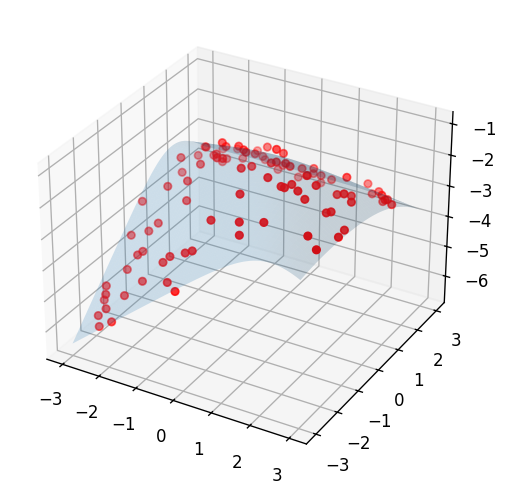
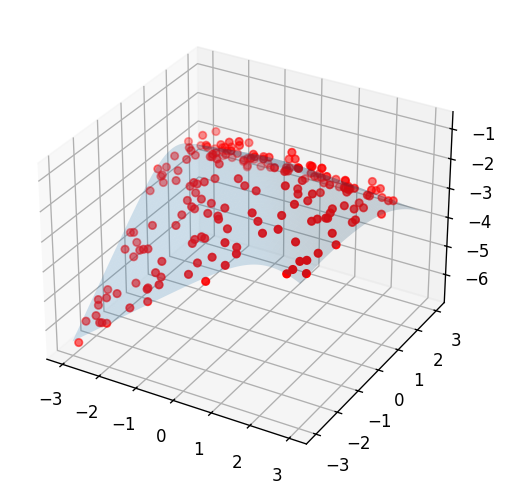
Fixes and adaptations

diff --git a/_posts/2025-12-16-Spectrum.md b/_posts/2025-12-16-Spectrum.md
@@ -7,15 +7,23 @@ comments: true
 image: assets/pow_spec_bi_9.png
 ---
 
+# TODO
+
+- Try interpolating
+- Clarify the contrast between interpolation and universality
+- Update experiments
+
 # Intro
 
 When trying to model a complicated relationship between features, our go-to architectures are typically either neural networks or decision trees. They are well-established, well-studied, and have an abundance of software for training them. So why not?
 
 But sometimes we have some additional requirements. Maybe we want our model to be an increasing / decreasing / convex / concave function of one or more feature. Perhaps we want to measure diminishing returns, and we want it to be both increasing and concave. Or maybe we care about the sensitivity of our model to noise, and want to certify its Lipschitz constant: what happens to the prediction if we slightly change the input?
 
-In the recent [interview](https://www.youtube.com/watch?v=aR20FWCCjAs) with Ilya Sutskever there was one interesting insight - perhaps we need neurons to do more compute than they do now. And it immediately rang a bell, and returned me to my Ph.D days - what would be this "more compute" that is useful? Well, maybe a neuron can solve a small optimization problem! 
+In the recent [interview](https://www.youtube.com/watch?v=aR20FWCCjAs) with Ilya Sutskever there was one interesting insight - perhaps we need neurons to do more compute than they do now. And it immediately rang a bell, and returned me to my Ph.D days - what would be this "more compute" that is useful? Well, maybe a neuron can solve a small optimization problem!   So in this post we shall explore an idea that most optimization researchers are familiar with - the eigenvalues of a matrix are solutions to optimization problems. So what can one such neuron do? Turns out quite a lot! This is exactly what we shall explore in this post.  
 
-So in this post we shall explore an idea that most optimization researchers are familiar with - the eigenvalues of a matrix are solutions to optimization problems that, on the one hand, can model extremely complicated functions, but on the other hand, we have a lot of machinery to reason about them and understand their properties. So what can one such neuron do? Turns out quite a lot! This is exactly what we shall explore in this post. The notebook for reproducing all the results is [here](https://github.com/alexshtf/alexshtf.github.io/blob/master/assets/specrum_power_intro.ipynb). Feel free to deploy it to Colab and play ith it.
+Why eigenvalues? Well, because of  a unique combination of three properties. They can model fairly complicated function, we have a lot of theoretical machinery to reason about them, and we can stand on the shoulders of giants and reuse the vast talent and resources invested over decades in their reliable computation.
+
+The notebook for reproducing all the results is [here](https://github.com/alexshtf/alexshtf.github.io/blob/master/assets/specrum_power_intro.ipynb). Feel free to deploy it to Colab and play ith it.
 
 # Univariate functions
 
@@ -47,7 +55,7 @@ def univariate_spectral(A, B, k, xs):
   return sla.eigvalsh(mats, subset_by_index=(k, k)).squeeze()
 ```
 
-So what do the functions look like? Let's take two $$3 \times 3$$ matrices $$\mathbf{A}$$ and $$\mathbf{B}$$ and plot the three functions corresponding the three eigenvalues:
+Note - we don't have to pass symmetric matrices. By default, SciPy uses just the entries above the diagonal as if these are the entries of the symmetric matrix. So what do the functions look like? Let's take two $$3 \times 3$$ matrices $$\mathbf{A}$$ and $$\mathbf{B}$$ and plot the three functions corresponding the three eigenvalues:
 
 ```python
 import matplotlib.pyplot as plt
@@ -235,7 +243,9 @@ Now why would it be interesting for ML people? Because we can _learn_ the matric
 
 ![pow_spec_auction_illustration]({{"assets/pow_spec_auction_illustration.png" | absolute_url}})
 
-Now we can pass the score to a sigmoid function to obtain a probability. Have a model of _two_ numerical inputs $$x$$ and $$y$$, but it must increase in $$x$$ and decrease in $$y$$? No problem! Just encode your other features into an arbitrary $$\mathbf{A}$$, a positive semi-definite $$\mathbf{B}$$ , and a negative semi-definite $$\mathbf{C}$$, and compute $$\lambda_k(\mathbf{A} + x \mathbf{B} + y \mathbf{C})$$.
+Now we can pass the score to a sigmoid function to obtain a probability that, by design, increases with the bid!
+
+You want a more complex model of _two_ numerical inputs $$x$$ and $$y$$, but it must increase in $$x$$ and decrease in $$y$$? No problem! Just encode your other features into an arbitrary $$\mathbf{A}$$, a positive semi-definite $$\mathbf{B}$$ , and a negative semi-definite $$\mathbf{C}$$, and compute $$\lambda_k(\mathbf{A} + x \mathbf{B} + y \mathbf{C})$$.
 
 # Training
 
@@ -251,12 +261,15 @@ def f(x, y):
 Let's take a look at its graph and its level sets:
 
 ```python
-def plot_bivariate(X, Y, Z):
+def plot_bivariate(X, Y, Z, show_rmse=False):
     fig = plt.figure(figsize=(10, 5))
     ax = fig.add_subplot(1, 2, 1, projection='3d')
     ax.plot_surface(X, Y, Z)
     ax = fig.add_subplot(1, 2, 2)
     ax.contour(X, Y, Z, levels=20)
+    if show_rmse:
+        rmse = np.sqrt(np.mean(np.square(Z - f(X, Y))))
+        fig.suptitle(f'RMSE = {rmse:.4f}')
 
 x = np.linspace(-3, 3, 300)
 y = np.linspace(-3, 3, 300)
@@ -266,7 +279,7 @@ plot_bivariate(X, Y, f(X, Y))
 
 ![pow_spec_concave_bi]({{"assets/pow_spec_concave_bi.png" | absolute_url}})
 
-Indeed appears a concave function with some non-trivial shape. 
+Indeed appears a concave function with some non-trivial shape. The `show_rmse` flag will be used later when we plot a fitted model and would like to show its approximation error.
 
 To train a model we shall need two ingredients: training data and a PyTorch module. So let's generate some training data:
 
@@ -274,7 +287,7 @@ To train a model we shall need two ingredients: training data and a PyTorch modu
 from torch.utils.data import TensorDataset
 from torch import as_tensor
 
-def make_trainset(n_train: int = 100, train_noise: float = 0.2):
+def make_trainset(n_train: int = 200, train_noise: float = 0.2):
     np.random.seed(42)
     x = np.random.uniform(-3, 3, n_train)
     y = np.random.uniform(-3, 3, n_train)
@@ -298,7 +311,7 @@ ax.plot_surface(X, Y, f(X, Y), alpha=0.2)
 
 ![pow_spec_concave_bi_train]({{"assets/pow_spec_concave_bi_train.png" | absolute_url}})
 
-Assume that we know we are learning some real-world behavior phenomenon that must be concave. So our PyTorch model shall be the smallest eigenvalue function. This is just a PyTorch re-implementation of the above - it is slightly more generic than we need now to support other eigenvalue indices - not just the smallest.
+Assume that we know we are learning some real-world behavior phenomenon that must be concave. So our PyTorch model shall be the smallest eigenvalue function. This is just a PyTorch re-implementation of the above - it is slightly more generic than we need now to support other eigenvalue indices - not just the smallest. Just like with SciPy, PyTorch also uses just the entries above the diagonal, o we don't need to worry about symmetry.
 
 ```python
 import torch
@@ -306,13 +319,13 @@ import torch.linalg as tla
 from torch import nn
 
 class BivariateSpectral(nn.Module):
-    def __init__(self, dim: int, eigval_idx: int):
+    def __init__(self, *, dim: int, eigval_idx: int):
         super().__init__()
         self.eigval_idx = eigval_idx % dim  # modulo - to support negative idx
         self.A = nn.Parameter(torch.randn(dim, dim))
         self.B = nn.Parameter(torch.randn(dim, dim))
         self.C = nn.Parameter(torch.randn(dim, dim))
-    
+
     def forward(self, x, y):
         # create a batch of matrices, one for each point (x[i], y[i])
         mats = (
@@ -324,18 +337,18 @@ class BivariateSpectral(nn.Module):
         return eigvals[..., self.eigval_idx]
 ```
 
-Alright! Let's train our smallest eigenvalue model! Below is a pretty standard PyTorch training loop with several epochs:
+ Alright! Let's train our smallest eigenvalue model! Below is a pretty standard PyTorch training loop:
 
 ```python
 from torch.utils.data import DataLoader
 import math
 
-def train_model(dim: int, n_epochs: int = 500, batch_size = 5):
-    lr = 1e-3
+def train_model(
+        model: nn.Module, n_epochs: int = 500, batch_size = 5, lr=1e-3
+    ):
     print_every = n_epochs // 10
     dl = DataLoader(ds, batch_size=batch_size, shuffle=True)
 
-    model = BivariateSpectral(dim, 0)
     optimizer = torch.optim.Adam(model.parameters(), lr=lr)
     loss_fn = nn.MSELoss()
     for epoch in range(1, 1 + n_epochs):
@@ -348,114 +361,141 @@ def train_model(dim: int, n_epochs: int = 500, batch_size = 5):
             with torch.no_grad():
                 epoch_loss += loss.item()
             optimizer.step()
-        
+
         if epoch == n_epochs or epoch % print_every == 0:
             train_rmse = math.sqrt(epoch_loss / len(ds))
             print(f'Epoch {epoch}, train RMSE: {train_rmse: .4f}')
-    
+
     return model
 ```
 
-Alright. Let's try training a model with $$3 \times 3$$ matrices, and plot it:
+Alright. Let's try training a concave model with $$3 \times 3$$ matrices, and plot it:
 
 ```python
-model = train_model(3)
+model = train_model(BivariateSpectral(dim=3, eigval_idx=0))
 with torch.no_grad():
     Z = model(as_tensor(X), as_tensor(Y)).numpy()
-plot_bivariate(X, Y, Z)
+plot_bivariate(X, Y, Z, show_rmse=True)
 ```
 
 The output:
 
 ```
-Epoch 50, train RMSE:  0.2774
-Epoch 100, train RMSE:  0.1244
-Epoch 150, train RMSE:  0.1016
-Epoch 200, train RMSE:  0.0945
-Epoch 250, train RMSE:  0.0900
-Epoch 300, train RMSE:  0.0879
-Epoch 350, train RMSE:  0.0867
-Epoch 400, train RMSE:  0.0856
-Epoch 450, train RMSE:  0.0855
-Epoch 500, train RMSE:  0.0850
+Epoch 50, train RMSE:  0.0952
+Epoch 100, train RMSE:  0.0910
+Epoch 150, train RMSE:  0.0884
+Epoch 200, train RMSE:  0.0866
+Epoch 250, train RMSE:  0.0859
+Epoch 300, train RMSE:  0.0862
+Epoch 350, train RMSE:  0.0860
+Epoch 400, train RMSE:  0.0858
+Epoch 450, train RMSE:  0.0858
+Epoch 500, train RMSE:  0.0856
 ```
 
 ![pow_spec_concave_bi_model_3]({{"assets/pow_spec_concave_bi_model_3.png" | absolute_url}})
 
 Not bad! Back-propagation appears to be working - the training loss went down, and the plot shows a the model learned something close to the truth.
 
-Now let's try something interesting - matrices of size $$20 \times 20$$. Note, that even _one_ such matrix has more entries than the size of the training set. So such a model is heavily over-parametrized. To make sure we're converging to the smallest loss we can, let's also crank up the number of epochs:
+Now let's try something interesting - matrices of size $$20 \times 20$$. Note, that even _one_ such matrix has more entries than the size of the training set. So such a model is heavily over-parametrized. To make sure we're converging to the smallest loss I did some tuning, and we need more epochs and a lower learning rate:
 
 ```python
-model = train_model(20, n_epochs=2000)
+model = train_model(
+    BivariateSpectral(dim=20, eigval_idx=0), n_epochs=2000, lr=1e-4
+)
 with torch.no_grad():
     Z = model(as_tensor(X), as_tensor(Y)).numpy()
-plot_bivariate(X, Y, Z)
+plot_bivariate(X, Y, Z, show_rmse=True)
 ```
 
 ```
-Epoch 200, train RMSE:  0.3814
-Epoch 400, train RMSE:  0.0762
-Epoch 600, train RMSE:  0.0744
-Epoch 800, train RMSE:  0.0765
-Epoch 1000, train RMSE:  0.0752
-Epoch 1200, train RMSE:  0.0741
-Epoch 1400, train RMSE:  0.0730
-Epoch 1600, train RMSE:  0.0723
-Epoch 1800, train RMSE:  0.0734
-Epoch 2000, train RMSE:  0.0737
+Epoch 200, train RMSE:  4.1648
+Epoch 400, train RMSE:  2.0389
+Epoch 600, train RMSE:  0.5819
+Epoch 800, train RMSE:  0.0964
+Epoch 1000, train RMSE:  0.0826
+Epoch 1200, train RMSE:  0.0811
+Epoch 1400, train RMSE:  0.0802
+Epoch 1600, train RMSE:  0.0796
+Epoch 1800, train RMSE:  0.0793
+Epoch 2000, train RMSE:  0.0792
 ```
 
 ![pow_spec_concave_bi_model_20]({{"assets/pow_spec_concave_bi_model_20.png" | absolute_url}})
 
-Whoa! This is interesting! Even though the model appears over-parametrized - it does not memorize the training set! Why? Well, because it is _concave by design_, and there appears to be no concave function that can achieve a zero training loss. Also, we see that the model is not "crazy" - its shape slightly resembles the true one, even if it's a bit skewed.  Does it improve with more data? Well, it turns out it does! Here is what happens if we use an over-parametrized model with a 50 times larger training set:
+Whoa! This is interesting! Even though the model appears over-parametrized - it does not memorize the training set! Why? Well,  one possible explanation is that it is is _concave by design_, and there appears to be no concave function that can achieve a zero training loss. Also, we see that the model is not "crazy" - its shape also resembles the true one, even if it's a bit different.  
+
+So let's put our conjecture to a test, and try to fit the _mid_ eigenvalue. This is not a function that is concave by design, and as we saw can have many "crazy" shapes. 
 
 ```python
-x_train, y_train, z_train = make_trainset(5000) # 50 times larget training set.
-ds = TensorDataset(
-    as_tensor(x_train), as_tensor(y_train), as_tensor(z_train)
+model = train_model(
+    BivariateSpectral(dim=20, eigval_idx=10), n_epochs=2000, lr=1e-4
 )
-
-model = train_model(100, n_epochs=20)
 with torch.no_grad():
     Z = model(as_tensor(X), as_tensor(Y)).numpy()
-plot_bivariate(X, Y, Z)
+plot_bivariate(X, Y, Z, show_rmse=True)
 ```
+
+```
+Epoch 200, train RMSE:  0.1979
+Epoch 400, train RMSE:  0.1031
+Epoch 600, train RMSE:  0.0876
+Epoch 800, train RMSE:  0.0822
+Epoch 1000, train RMSE:  0.0798
+Epoch 1200, train RMSE:  0.0786
+Epoch 1400, train RMSE:  0.0778
+Epoch 1600, train RMSE:  0.0768
+Epoch 1800, train RMSE:  0.0764
+Epoch 2000, train RMSE:  0.0760
+```
+
+![pow_spec_concave_bi_model_20_mid]({{"assets/pow_spec_concave_bi_model_20_mid.png" | absolute_url}})
+
+Training error is slightly lower, but apparently does _not_ go down to zero! What happens if we increase the model's representation power by increasing the size of the matrices? Let's try the middle eigenvlaue of $$40 \times 40$$ matrices:
 
 ```python
-Epoch 2, train RMSE:  10.9518
-Epoch 4, train RMSE:  5.8636
-Epoch 6, train RMSE:  2.6577
-Epoch 8, train RMSE:  0.7886
-Epoch 10, train RMSE:  0.1728
-Epoch 12, train RMSE:  0.1001
-Epoch 14, train RMSE:  0.1002
-Epoch 16, train RMSE:  0.1000
-Epoch 18, train RMSE:  0.0984
-Epoch 20, train RMSE:  0.0966
+model = train_model(
+    BivariateSpectral(dim=40, eigval_idx=20), n_epochs=2000, lr=1e-4
+)
+with torch.no_grad():
+    Z = model(as_tensor(X), as_tensor(Y)).numpy()
+plot_bivariate(X, Y, Z, show_rmse=True)
 ```
 
-![pow_spec_concave_bi_model_100_5000]({{"assets/pow_spec_concave_bi_model_100_5000.png" | absolute_url}})
+```
+Epoch 200, train RMSE:  0.1032
+Epoch 400, train RMSE:  0.0710
+Epoch 600, train RMSE:  0.0668
+Epoch 800, train RMSE:  0.0650
+Epoch 1000, train RMSE:  0.0639
+Epoch 1200, train RMSE:  0.0624
+Epoch 1400, train RMSE:  0.0617
+Epoch 1600, train RMSE:  0.0609
+Epoch 1800, train RMSE:  0.0605
+Epoch 2000, train RMSE:  0.0598
+```
 
-Turns out we get a very nice fit. And as expected - the training loss does _not_ go to zero, despite the apparently huge number of parameters, because there is no concave function that can achieve a zero training loss.  Turns out our knowledge of the function being concave is a **very** strong inductive bias! 
+![pow_spec_concave_bi_model_40_mid]({{"assets/pow_spec_concave_bi_model_40_mid.png" | absolute_url}})
 
-Now it would be a good time to do a recap, because we have much more things to explore.
+Note - training error indeed goes down, so our model gained expressive power. Note - the model has 2460 parameters, much more than our 200 training samples. Yet, the training error does not go to zero, the test error does not explode, and the plot  still resembles the true function!  So perhaps there is some other property these functions have "by design", even if we don't impose shape by using extreme eigenvalues?
+
+ Well, there are apparently some interesting properties of these eigenvalue functions worth investigating. So now it would be a good time to do a recap and summarise what we saw, because it appears to be quite a lot to grasp.
 
 # Summary
 
 We saw here something that most linear algebra and optimization researchers know for a long time - eigenvalues of symmetric matrices can be used to model functions of various desired shapes. If we know that the real-world phenomenon we aim to learn has some shape, it might be a good idea to model it that way _by design_. It makes our model sane at inference, because it behaves as we would expect, but it appears to also help train it from data.
 
-Some bibliographic notes. The idea of monotonicity in neural networks was studied before. One prominent line of work is that of deep lattice networks[^1] , and mixing monotonicity with convexity and concavity was studied by Runje and Shankaranarayana [^2]. And despite the fact that what I showed here is long known, the idea of just applying the existing knowledge to construct a learnable model is to the best of my knowledge quite recent, and appeared in the 2025 paper by Cook et. al. [^3], who also proved these models to be universal approximators. Universality, of course, is no that important, and when we care about a specific shape, we actually do _not_ want a universal family - we want a family respecting our shape constraints.
+Some bibliographic notes. The idea of monotonicity in neural networks was studied before. One prominent line of work is that of deep lattice networks[^1] , and mixing monotonicity with convexity and concavity was studied by Runje and Shankaranarayana [^2]. And despite the fact that what I showed here is long known, the idea of just applying the existing knowledge to construct a learnable model from generic eigenvalue functions is, to the best of my knowledge quite recent, and appeared in the 2025 paper by Cook et. al. [^3]. Their work  also proved these models to be universal approximators. Interestingly, universality does not mean the models can exactly memorize a training set of any size, just that they can get arbitrarily close to any function as the model size increases - so it does not contradict our observations here. Moreover, universality is no that important, especially when we care about a specific shape. In fact, in these cases we actually do _not_ want a universal family - we want a family respecting our shape constraints.
 
 Now with this toolbox in mind, we can try to explore other things:
 
 - How do we build a model that learns positve-semidefinite matrices in PyTorch to model increasing / decreasing functions?
 - Can we mix and match? For example - build a model that is _by design_ increasing in $$x, z$$, decreasing in $$y$$, and jointly concave in $$(x, y)$$?
 - Do we need fully dense matrices? Maybe low-rank / sparse / banded matrices already have enough expressive power?
-- What about a general function? How do eigenvalue functions compare to just plain old ReLU MLPs?
+- What exactly are the properties of eigenvalue functions? What is their representation power? How do eigenvalue functions compare to just plain old ReLU MLPs?
 - What are the theoretical interpretations of these eigenvalue functions? Perhaps we can think of them as deep neural networks? Or maybe something else?
 
-And many more. Stay tuned!
+In the next posts we shall explore some of these aspects, and maybe more. So stay tuned!
 
 # References
 
